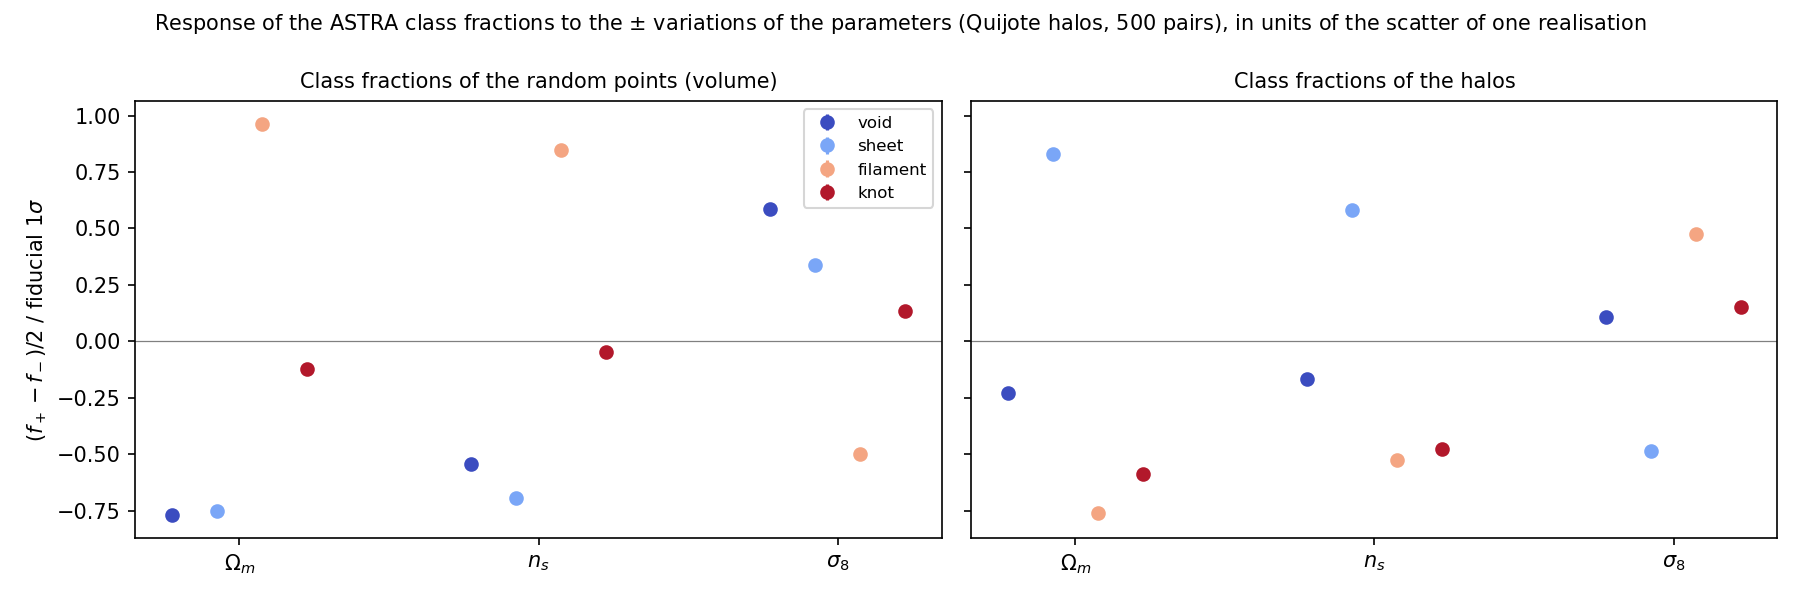
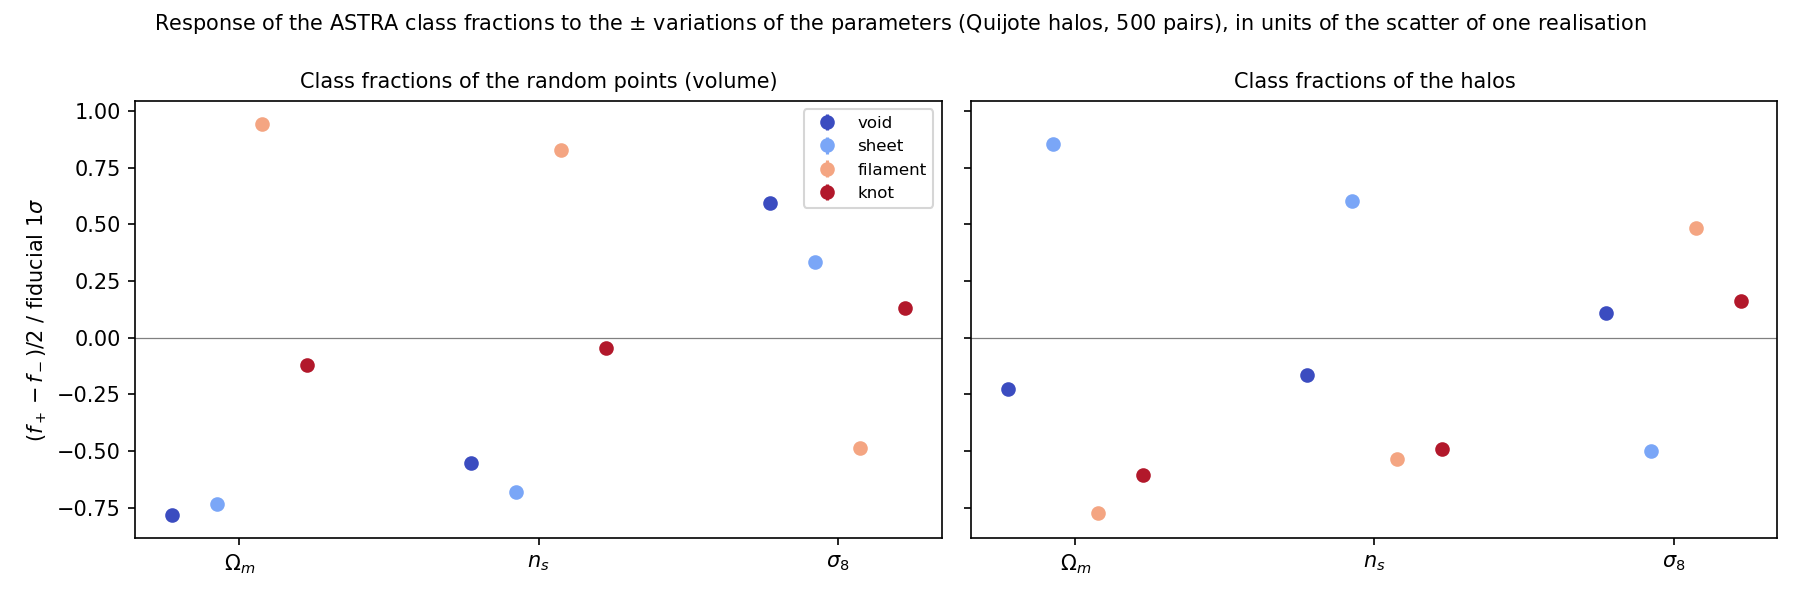
ASTRA classes confirmed on full Quijote (4000 fiducials, 3 compressions); paper table and outlook; Jaime questions

diff --git a/paper/main.tex b/paper/main.tex
@@ -38,7 +38,7 @@
 \maketitle
 
 \begin{abstract}
-Density-split clustering, the clustering of regions ranked by their smoothed local density, recovers part of the non-Gaussian cosmological information of the galaxy field. We compare it with ASTRA split, in which the environment of a point is defined without smoothing, from its neighbours in the Delaunay tessellation of the galaxies and of a random catalogue. Both are measured on the same DESI-like luminous red galaxy mocks at $z=0.5$ (AbacusSummit), with the same random points and estimators. Because the galaxy--halo connection (HOD) is drawn independently in each cosmology of the emulator suite, finite differences between cosmologies are dominated by the HOD change; we obtain the cosmological derivatives from a neural-network emulator of the statistics as a function of cosmology and HOD, cross-checked with a regression over the derivative grid, and the covariance from 1786 independent boxes of the official DESI mocks. A second analysis with Quijote halos provides clean finite-difference derivatives, and an MCMC inference with the emulator tests the full pipeline. Both methods improve on the two-point function by factors 1.6--3.1. They carry comparable information: the ratio of their marginalised errors on $\omega_b$, $\omega_{\rm cdm}$, $n_s$, $\sigma_8$, $w_0$ and $w_a$ lies between 0.8 and 1.1 (0.77--1.14 over four fiducial HODs), density split being slightly ahead on most parameters. They are complementary: their combination improves on the better of the two by 23\% ($\sigma_8$) to a factor 2.4 ($\omega_b$). With Quijote halos, ASTRA split is more constraining on $\sigma_8$ by a factor 1.5--2 when its environment auto-correlations or tracer environments are used. The original ASTRA cosmic-web classes reduce at these densities to two dominant classes (sheets and filaments); on Quijote, their auto- and cross-correlations are nevertheless the most constraining statistic, improving on density split by a factor 1.5--2.8. ASTRA is an adaptive-scale statistic, much more sensitive than density split to the sampling density. We document the methodological pitfalls met along the way (HOD mismatch of emulator suites, single-box covariances, noisy derivatives of environment statistics), how we addressed them, and how the results evolved.
+Density-split clustering, the clustering of regions ranked by their smoothed local density, recovers part of the non-Gaussian cosmological information of the galaxy field. We compare it with ASTRA split, in which the environment of a point is defined without smoothing, from its neighbours in the Delaunay tessellation of the galaxies and of a random catalogue. Both are measured on the same DESI-like luminous red galaxy mocks at $z=0.5$ (AbacusSummit), with the same random points and estimators. Because the galaxy--halo connection (HOD) is drawn independently in each cosmology of the emulator suite, finite differences between cosmologies are dominated by the HOD change; we obtain the cosmological derivatives from a neural-network emulator of the statistics as a function of cosmology and HOD, cross-checked with a regression over the derivative grid, and the covariance from 1786 independent boxes of the official DESI mocks. A second analysis with Quijote halos provides clean finite-difference derivatives, and an MCMC inference with the emulator tests the full pipeline. Both methods improve on the two-point function by factors 1.6--3.1. They carry comparable information: the ratio of their marginalised errors on $\omega_b$, $\omega_{\rm cdm}$, $n_s$, $\sigma_8$, $w_0$ and $w_a$ lies between 0.8 and 1.1 (0.77--1.14 over four fiducial HODs), density split being slightly ahead on most parameters. They are complementary: their combination improves on the better of the two by 23\% ($\sigma_8$) to a factor 2.4 ($\omega_b$). With Quijote halos, ASTRA split is more constraining on $\sigma_8$ by a factor 1.5--2 when its environment auto-correlations or tracer environments are used. The original ASTRA cosmic-web classes reduce at these densities to two dominant classes (sheets and filaments); on Quijote, their auto- and cross-correlations are nevertheless the most constraining statistic, constraining $\sigma_8$ two to three times better than density split. ASTRA is an adaptive-scale statistic, much more sensitive than density split to the sampling density. We document the methodological pitfalls met along the way (HOD mismatch of emulator suites, single-box covariances, noisy derivatives of environment statistics), how we addressed them, and how the results evolved.
 \end{abstract}
 
 % =====================================================================
@@ -646,13 +646,33 @@ halo, cross & $\Omega_m,n_s,\sigma_8$ & 1.16--1.20 & 1.17--1.23 & 1.54--1.70 \\
 \subsection{ASTRA cosmic-web classes (Quijote)}
 \label{sec:classes}
 
-To test whether the original ASTRA classes carry more information than quartiles, we measured them on Quijote, where the derivatives are clean: 1000 fiducial realisations for the covariance and the 500 pairs of $\Omega_m$, $n_s$ and $\sigma_8$, with the same halos, random points and estimators as the quartile analysis, and compared them with the quartiles of ASTRA and density split measured on the same realisations ($10\Mpch$ bins, $\ell=0,2$, $s\ge20\Mpch$). Because the void and knot classes are nearly empty for random points, the class data vectors use the sheets and filaments (adding the voids changes nothing).
+To test whether the original ASTRA classes carry more information than quartiles, we measured them on Quijote, where the derivatives are clean: 4000 fiducial realisations for the covariance and the 500 pairs of $\Omega_m$, $n_s$ and $\sigma_8$, with the same halos, random points and estimators as the quartile analysis, and compared them with the quartiles of ASTRA and density split measured on the same realisations ($10\Mpch$ bins, $\ell=0,2$, $s\ge20\Mpch$). Because the void and knot classes are nearly empty for random points, the class data vectors use the sheets and filaments (adding the voids changes nothing).
 
 \paragraph{Class fractions.} The fractions of points in each class are themselves sensitive to cosmology (Figure~\ref{fig:classes_resp}): a variation of $\Omega_m$, $n_s$ or $\sigma_8$ shifts the sheet and filament fractions of the random points by 0.3--1 times their scatter between realisations, in opposite directions. Unlike quartiles, which have fixed fractions by construction, fixed thresholds let the volume of each environment respond to cosmology.
 
-\paragraph{Information.} For $(\Omega_m,\sigma_8)$, all the forecasts are reliable (Figure~\ref{fig:classes_fisher}). With cross-correlations only, the two-class split carries as much information as the Q1+Q4 quartiles ($\sigma(\Omega_m)=0.0081$ vs 0.0083, $\sigma(\sigma_8)=0.013$ vs 0.012, for $1\,(h^{-1}{\rm Gpc})^3$). With the auto-correlations, the classes are the most constraining statistic: $\sigma(\sigma_8)=0.0044$, against 0.0060 for the ASTRA quartiles and 0.0093 for the density-split quartiles, and $\sigma(\Omega_m)=0.0067$ against 0.0071 and 0.0087. For $(\Omega_m,n_s,\sigma_8)$, the classes with auto-correlations are the only reliable ASTRA random-point data vector, with $\sigma=0.022$, 0.045 and 0.0076, i.e.\ 1.5, 1.8 and 2.8 times smaller than density split with its auto-correlations (whose reliability is marginal, ratio 1.5). The classes of the halos give $\sigma(\Omega_m)$ 15\% smaller than the halo quartiles but a larger $\sigma(\sigma_8)$.
+\paragraph{Information.} Table~\ref{tab:classes} and Figure~\ref{fig:classes_fisher} compare the classes with the quartiles of ASTRA and density split for the three compressions of the data vector used in Section~\ref{sec:quijote}. For $(\Omega_m,\sigma_8)$ all the forecasts are reliable. With cross-correlations only, the classes carry about as much information as the ASTRA quartiles, and less than density split on $\sigma_8$. With the auto-correlations, the classes are the most constraining statistic for every compression: $\sigma(\sigma_8)$ is 2.1--3.0 times smaller than with density split and 1.35--1.45 times smaller than with the ASTRA quartiles, and $\sigma(\Omega_m)$ 1.3--1.5 and $\sim1.1$ times smaller. For $(\Omega_m,n_s,\sigma_8)$, the classes with auto-correlations are reliable for all compressions (and are the only reliable ASTRA random-point vector with the finest binning); their advantage over density split remains a factor 2.8--2.9 on $\sigma_8$, but shrinks with the compression on $\Omega_m$ (1.0--1.5) and $n_s$ (1.2--1.85). The classes of the halos give $\sigma(\Omega_m)$ 15\% smaller than the halo quartiles but a larger $\sigma(\sigma_8)$.
 
-\paragraph{Interpretation.} The gain comes from the auto-correlations of the two classes and from the response of their volumes to cosmology, which equal-size quartiles remove by construction. These results use a single compression of the data vector and 1000 fiducial realisations; they show that the original ASTRA classes, despite their imbalance, are a promising data vector, to be confirmed with the full Quijote sets and, for a DESI-like analysis, with an emulator trained on class statistics (which requires remeasuring the emulator suite).
+\begin{table}[!htbp]
+\centering\small
+\begin{tabular}{lccc}
+\toprule
+compression & $\Omega_m$ & $n_s$ & $\sigma_8$ \\
+\midrule
+\multicolumn{4}{l}{$(\Omega_m,\sigma_8)$} \\
+$10\Mpch$, $\ell=0,2$ & 1.28 & -- & 2.08 \\
+$20\Mpch$, $\ell=0,2$ & 1.49 & -- & 2.95 \\
+$20\Mpch$, $\ell=0$ & 1.52 & -- & 2.96 \\
+\multicolumn{4}{l}{$(\Omega_m,n_s,\sigma_8)$} \\
+$10\Mpch$, $\ell=0,2$ & 1.51$^*$ & 1.85$^*$ & 2.88$^*$ \\
+$20\Mpch$, $\ell=0,2$ & 1.07 & 1.31 & 2.86 \\
+$20\Mpch$, $\ell=0$ & 0.99 & 1.20 & 2.78 \\
+\bottomrule
+\end{tabular}
+\caption{Quijote, 4000 fiducial realisations: $\sigma_{\rm DS}/\sigma_{\rm classes}$ for the random-point cross- and auto-correlations of the density-split quartiles and of the ASTRA classes (sheets and filaments); above 1: classes more constraining. $^*$: density split marginally reliable (estimator ratio 1.5--1.6).}
+\label{tab:classes}
+\end{table}
+
+\paragraph{Interpretation.} The gain comes from the auto-correlations of the two classes and from the response of their volumes to cosmology, which equal-size quartiles remove by construction. The advantage on $\sigma_8$, a factor 2--3 over density split, is robust to the compression, the parameter set and the number of covariance realisations; the advantage on $\Omega_m$ and $n_s$ is smaller and depends on the compression. For a DESI-like analysis, this would require an emulator trained on class statistics, i.e.\ remeasuring the emulator suite.
 
 \begin{figure*}[!tp]
 \centering
@@ -724,7 +744,7 @@ This is an intrinsic property of the estimator rather than a numerical instabili
 
 \paragraph{Improvements.} A learning curve shows that the emulator error has reached a plateau at about half the statistical error of a $2\,h^{-1}$Gpc box: more training catalogues of the same kind would barely help. Several HOD realisations (seeds) per point, or HOD-matched catalogues generated with AbacusHOD in all cosmologies, are needed both to lower this floor, which would make an inference on a DESI-like volume discriminating, and to obtain clean derivatives in the DESI-like setting. Larger sets of independent boxes would remove the remaining dependence on the covariance.
 
-\paragraph{Beyond quartiles.} Being local and free of smoothing, ASTRA provides more than a density ranking: a classification of every galaxy into voids, sheets, filaments and knots, a continuous environment value usable as a mark, and a natural treatment of survey masks through the random points. The first test of the classes on Quijote (Section~\ref{sec:classes}) is the most promising result of this work for ASTRA: despite their imbalance, the classes with their auto-correlations constrain $\sigma_8$ two to three times better than density split. Natural next steps are the full Quijote sets, the probabilistic classes of \cite{ASTRA} (classification repeated over many random catalogues, which gives every point a probability of belonging to each class and could make the void and knot classes usable), thresholds adapted to the density of the sample, and an emulator of class statistics for DESI.
+\paragraph{Beyond quartiles.} Being local and free of smoothing, ASTRA provides more than a density ranking: a classification of every galaxy into voids, sheets, filaments and knots, a continuous environment value usable as a mark, and a natural treatment of survey masks through the random points. The first test of the classes on Quijote (Section~\ref{sec:classes}) is the most promising result of this work for ASTRA: despite their imbalance, the classes with their auto-correlations constrain $\sigma_8$ two to three times better than density split, robustly across compressions. Natural next steps are the probabilistic classes of \cite{ASTRA} (classification repeated over many random catalogues, which gives every point a probability of belonging to each class and could make the void and knot classes usable), thresholds adapted to the density of the sample, and an emulator of class statistics for DESI.
 
 % =====================================================================
 \section{Conclusions}
@@ -734,11 +754,12 @@ We compared ASTRA split, an environment estimator built on the Delaunay tessella
 \begin{itemize}
 \item The two classifications are strongly but not perfectly correlated ($\rho\simeq0.72$); ASTRA produces weaker environment contrasts, and its environment values hardly respond to cosmology: its information lies in the clustering of its environments.
 \item Both improve on the 2PCF by factors 1.6--3.1. They carry comparable information on $\omega_b$, $\omega_{\rm cdm}$, $n_s$, $\sigma_8$, $w_0$ and $w_a$ (error ratio 0.8--1.1 in the DESI-like baseline, density split slightly ahead) and are complementary (23\% to a factor 2.4 gain when combined). With Quijote halos, ASTRA is more constraining on $\sigma_8$ by a factor 1.5--2 through its environment auto-correlations and tracer environments.
-\item With the fixed thresholds of ASTRA, the cosmic-web classes reduce in practice to two dominant classes (sheets and filaments) at these densities, which motivated quartiles; on Quijote, the classes with their auto-correlations are nevertheless the most constraining statistic, by a factor 1.5--2.8 over density split.
+\item With the fixed thresholds of ASTRA, the cosmic-web classes reduce in practice to two dominant classes (sheets and filaments) at these densities, which motivated quartiles; on Quijote, the classes with their auto-correlations are nevertheless the most constraining statistic, by a factor 2--3 over density split on $\sigma_8$ (1--1.5 on $\Omega_m$), robustly across compressions.
 \item ASTRA is an adaptive-scale statistic, very sensitive to the sampling density and to the random-to-galaxy ratio, and must be modelled at the density of the data.
 \item Emulator suites with independent HOD draws per cosmology do not allow naive finite differences, single-box covariances bias the comparison of statistics, and environment statistics of sparse tracers have noisy derivatives; we showed how each was diagnosed and addressed.
 \item The emulator inference is unbiased and calibrated; discriminating between statistics with it requires several HOD realisations per training point.
 \end{itemize}
+Natural continuations, beyond the scope of this paper, are the probabilistic ASTRA classes of \cite{ASTRA} (classification over many random catalogues), which could make the void and knot classes usable, and an emulator of the class statistics on the AbacusSummit suite for a DESI-like analysis of the classes.
 
 % =====================================================================
 \appendix

diff --git a/scripts/quijote_classes_fisher.py b/scripts/quijote_classes_fisher.py
@@ -67,9 +67,10 @@ def main():
     parser.add_argument('--params', nargs='+', default=['Om', 's8'])
     parser.add_argument('--rebin', type=int, default=2)
     parser.add_argument('--smin', type=float, default=20.)
+    parser.add_argument('--ells', type=int, nargs='+', default=[0, 2])
     parser.add_argument('--tag', default='')
     args = parser.parse_args()
-    QF.REBIN, QF.KEEP = args.rebin, list(args.params)
+    QF.REBIN, QF.KEEP, QF.ELLS = args.rebin, list(args.params), tuple(args.ells)
     QF.STEPS = {p: QF.STEPS[p] for p in ('Om', 'ns', 's8')}
 
     cstats = sorted({s for v in CLASS_VECTORS.values() for s in v} | {'gg'})
@@ -93,7 +94,7 @@ def main():
         print(f'{name:40s} ndim {r["ndim"]:3d} ' +
               '  '.join(f'{p}: {s:.2e} [{x:.2f}]' for p, s, x in zip(args.params, r['sigma'], rel)))
     out = A.DATA / f'quijote_classes_fisher{args.tag}.json'
-    out.write_text(json.dumps({'params': args.params, 'rebin': args.rebin,
+    out.write_text(json.dumps({'params': args.params, 'rebin': args.rebin, 'ells': args.ells,
                                'results': {k: {kk: vv for kk, vv in r.items() if kk != 'cov'} for k, r in res.items()}},
                               indent=1))
     print(f'saved {out}')

diff --git a/docs/NEXT_STEPS.md b/docs/NEXT_STEPS.md
@@ -69,8 +69,25 @@ calculer moins de statistiques par catalogue.
 3. **Choix de l'analyse de référence.** Est-il d'accord avec : covariance des
    petites boîtes officielles, fiducial = HOD officielle, Quijote limité à
    (Ωm, σ8) et (Ωm, ns, σ8) ?
-4. **Références** : article ASTRA à citer, et référence du prior HOD
-   « yuan23 ».
+4. **Références** : trouvées et ajoutées (ASTRA : arXiv:2404.01124 ; prior HOD :
+   Yuan et al. 2024, arXiv:2306.06314). Lui faire seulement confirmer que le
+   prior « yuan23 » vient bien de cet article.
+
+5. **Classes ASTRA probabilistes.** Avec les seuils fixes (vide ≤ −0.9 < feuillet
+   ≤ 0 < filament ≤ 0.9 < nœud) et un seul catalogue aléatoire, vides et nœuds
+   contiennent < 1 % des points à la densité des LRG (0.2 % de vides pour les
+   points aléatoires, contre 7–11 % dans l'article ASTRA, sur des catalogues
+   11–73 fois plus denses) : il reste 2 classes dominantes. Sur Quijote, les
+   classes feuillet/filament avec leurs autocorrélations sont pourtant la
+   statistique la plus contraignante (σ8 ≈ 2× mieux que le DS). L'article ASTRA
+   utilise des **probabilités** de classe sur 100 catalogues aléatoires : est-ce
+   la version probabiliste qu'il a en tête pour DESI ? Faut-il adapter les
+   seuils à la densité de l'échantillon ? (Coût d'un test : ~100× la
+   tessellation actuelle.)
+6. **Émulateur des classes sur Abacus** (~150 h-nœud de remesure) : utile pour
+   une analyse type DESI des classes, mais hors du périmètre de cet article
+   (déjà 3 articles prévus en un : statistiques ASTRA, émulateur, MCMC).
+   Pour un article suivant ?
 
 ## 4. GitHub
 
